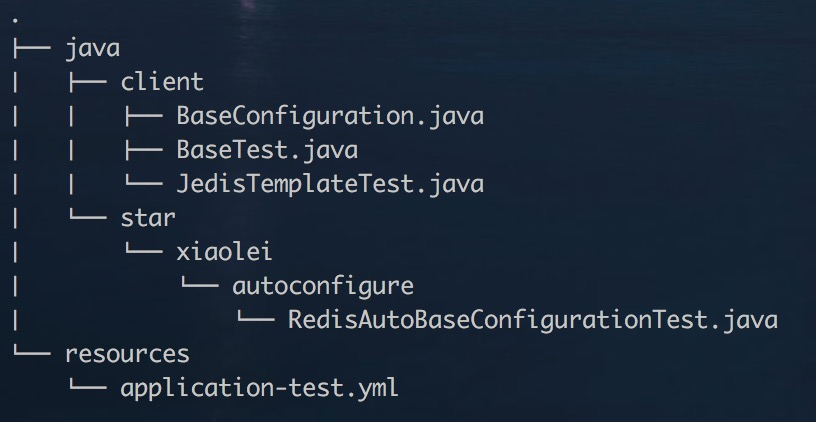
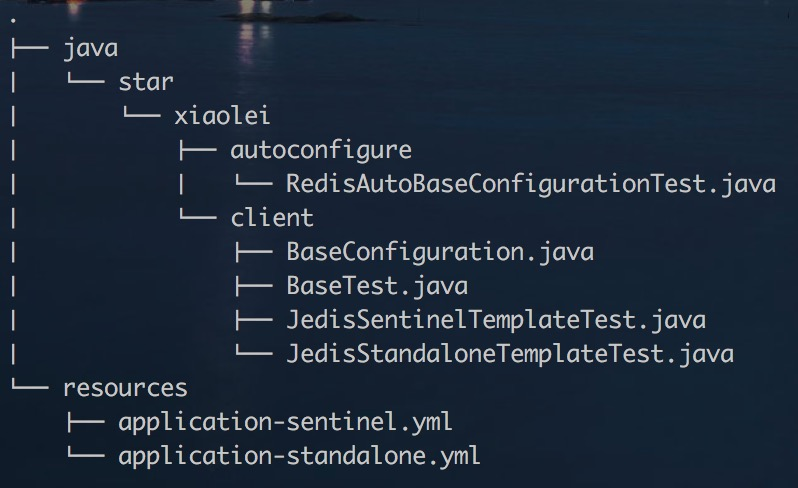
intergrate sentinel mode

diff --git a/src/main/java/star/xiaolei/autoconfigure/RedisAutoConfiguration.java b/src/main/java/star/xiaolei/autoconfigure/RedisAutoConfiguration.java
@@ -1,5 +1,7 @@
 package star.xiaolei.autoconfigure;
 
+import com.google.common.base.Strings;
+import com.google.common.collect.Sets;
 import lombok.extern.slf4j.Slf4j;
 import org.slf4j.Logger;
 import org.slf4j.LoggerFactory;
@@ -7,10 +9,12 @@ import org.springframework.beans.factory.annotation.Autowired;
 import org.springframework.boot.context.properties.EnableConfigurationProperties;
 import org.springframework.context.annotation.Bean;
 import org.springframework.context.annotation.Configuration;
+import redis.clients.jedis.*;
+import redis.clients.util.Pool;
 import star.xiaolei.client.JedisTemplate;
 import star.xiaolei.properties.RedisProperties;
-import redis.clients.jedis.JedisPool;
-import redis.clients.jedis.JedisPoolConfig;
+
+import java.util.Set;
 
 /**
  * Created by 周高磊
@@ -45,11 +49,23 @@ public class RedisAutoConfiguration {
     /**
      * 构建连接池
      * @param jedisPoolConfig 连接池配置信息
-     * @return 连接池
+     * @return Pool<Jedis>: JedisPool/JedisSentinelPool 连接池
      */
     @Bean
-    public JedisPool getJedisPool(JedisPoolConfig jedisPoolConfig) {
-        return new JedisPool(jedisPoolConfig, properties.getHost(), properties.getPort());
+    public Pool<Jedis> getJedisPool(JedisPoolConfig jedisPoolConfig) {
+        if(properties.isCluster()) {
+            String[] sentinelProps =  properties.getSentinelHosts().split(",");
+            Set<String> sentinelHosts = Sets.newHashSet(sentinelProps);
+            if(Strings.isNullOrEmpty(properties.getAuth())) {
+                return new JedisSentinelPool(properties.getSentinelMasterName(), sentinelHosts, jedisPoolConfig);
+            }
+            return new JedisSentinelPool(properties.getSentinelMasterName(), sentinelHosts, jedisPoolConfig, Protocol.DEFAULT_TIMEOUT, properties.getAuth());
+        }
+
+        if(Strings.isNullOrEmpty(properties.getAuth())) {
+            return new JedisPool(jedisPoolConfig, properties.getHost(), properties.getPort());
+        }
+        return new JedisPool(jedisPoolConfig, properties.getHost(), properties.getPort(), Protocol.DEFAULT_TIMEOUT, properties.getAuth());
     }
 
     /**
@@ -58,7 +74,7 @@ public class RedisAutoConfiguration {
      * @return 客户端可用连接
      */
     @Bean
-    public JedisTemplate getRedisTemplate(JedisPool jedisPool) {
+    public JedisTemplate getRedisTemplate(Pool<Jedis> jedisPool) {
         return new JedisTemplate(jedisPool);
     }
 

diff --git a/src/test/java/star/xiaolei/client/JedisSentinelTemplateTest.java b/src/test/java/star/xiaolei/client/JedisSentinelTemplateTest.java
@@ -1,0 +1,37 @@
+package star.xiaolei.client;
+
+import org.junit.Before;
+import org.junit.Test;
+import org.springframework.beans.factory.annotation.Autowired;
+import org.springframework.test.context.ActiveProfiles;
+import static org.hamcrest.MatcherAssert.assertThat;
+import static org.hamcrest.core.Is.is;
+
+/**
+ * Created by 周高磊
+ * Date: 2017/5/4.
+ * Email: gaoleizhou@gmail.com
+ * Desc: Sentinel模式测试
+ */
+@ActiveProfiles("sentinel")
+public class JedisSentinelTemplateTest extends BaseTest {
+
+    @Autowired
+    private JedisTemplate jedisTemplate;
+
+    @Before
+    public void init() {
+        jedisTemplate.execute(jedis -> {
+            jedis.set("test", "1");
+        });
+    }
+
+    @Test
+    public void testGetWithResult() {
+        String value = jedisTemplate.execute(jedis -> {
+            return jedis.get("test");
+        });
+        assertThat(value, is("1"));
+    }
+
+}

diff --git a/src/main/java/star/xiaolei/client/JedisTemplate.java b/src/main/java/star/xiaolei/client/JedisTemplate.java
@@ -5,6 +5,7 @@ import org.slf4j.LoggerFactory;
 import redis.clients.jedis.Jedis;
 import redis.clients.jedis.JedisPool;
 import redis.clients.jedis.exceptions.JedisException;
+import redis.clients.util.Pool;
 
 /**
  * Created by 周高磊
@@ -16,9 +17,9 @@ public class JedisTemplate {
 
     private static Logger logger = LoggerFactory.getLogger(JedisTemplate.class);
 
-    private JedisPool jedisPool;
+    private Pool<Jedis> jedisPool;
 
-    public JedisTemplate(JedisPool jedisPool) {
+    public JedisTemplate(Pool<Jedis> jedisPool) {
         this.jedisPool = jedisPool;
     }
 
@@ -26,7 +27,7 @@ public class JedisTemplate {
      * 获取连接池
      * @return jedisPool
      */
-    public JedisPool getJedisPool() {
+    public Pool<Jedis> getJedisPool() {
         return jedisPool;
     }
 

diff --git a/src/test/java/star/xiaolei/client/JedisStandaloneTemplateTest.java b/src/test/java/star/xiaolei/client/JedisStandaloneTemplateTest.java
@@ -3,6 +3,7 @@ package star.xiaolei.client;
 import org.junit.Before;
 import org.junit.Test;
 import org.springframework.beans.factory.annotation.Autowired;
+import org.springframework.test.context.ActiveProfiles;
 
 import static org.hamcrest.MatcherAssert.assertThat;
 import static org.hamcrest.core.Is.is;
@@ -11,9 +12,10 @@ import static org.hamcrest.core.Is.is;
  * Created by 周高磊
  * Date: 2017/5/3.
  * Email: gaoleizhou@gmail.com
- * Desc:
+ * Desc: Standalone模式测试
  */
-public class JedisTemplateTest extends BaseTest {
+@ActiveProfiles("standalone")
+public class JedisStandaloneTemplateTest extends BaseTest {
 
     @Autowired
     private JedisTemplate jedisTemplate;

diff --git a/src/main/java/star/xiaolei/properties/RedisProperties.java b/src/main/java/star/xiaolei/properties/RedisProperties.java
@@ -34,4 +34,13 @@ public class RedisProperties {
     //在获取连接的时候是否检查有效性
     private boolean testOnBorrow = true;
 
+    //是否开启集群模式,默认关闭
+    private boolean cluster = false;
+
+    //Sentinel Instance 列表
+    private String SentinelHosts;
+
+    //Sentinel Master Name
+    private String SentinelMasterName;
+
 }

diff --git a/src/test/java/star/xiaolei/client/BaseTest.java b/src/test/java/star/xiaolei/client/BaseTest.java
@@ -13,6 +13,5 @@ import org.springframework.test.context.junit4.SpringJUnit4ClassRunner;
  */
 @RunWith(SpringJUnit4ClassRunner.class)
 @SpringBootTest(classes = BaseConfiguration.class)
-@ActiveProfiles("test")
 public abstract class BaseTest {
 }

diff --git a/README.md b/README.md
@@ -7,6 +7,7 @@
 * 连接池的获取: JedisTemplate负责连接池的管理,也可通过getJedisPool单独获取连接池;
 * 连接池资源的释放: 每次执行完Redis的命令动作之后,自动释放连接池;
 * 支持两种类型: 有返回结果的函数回调和无返回结果的函数回调;
+* 支持Standalone和Sentinel模式，通过cluster属性作为开关；
 * 使用JDK 8的Lambda表达式: 函数式编程, 接口编程.
 
 #### 二. 项目结构
@@ -21,15 +22,18 @@ JedisTemplate.java: 通用的连接模板;
 ```
 * 测试代码
 
-<img src="test-structure.png" width="360" height="200" alt="结构" />
+<img src="test-structure.png" width="310" height="200" alt="结构" />
 
 ```
 RedisAutoBaseConfigurationTest.java: 测试配置的自动加载与Bean装配;
-JedisTemplateTest.java: 测试连接池的管理与使用.
+JedisTemplateTest.java: Standalone模式测试用例
+JedisSentinelTemplateTest: Sentinel模式测试用例
 ```
 
 #### 三. 配置(application.yml)
 ##### 使用Spring-Boot的yml文件进行配置的管理.
+* Standalone模式
+
 ```
 redis:
   host: 127.0.0.1
@@ -38,6 +42,19 @@ redis:
   maxIdle: 0
   maxWaitMillis: 10000
   testOnBorrow: true
+```
+
+* Sentinel模式
+
+```
+redis:
+  maxTotal: 5
+  maxIdle: 0
+  maxWaitMillis: 10000
+  testOnBorrow: true
+  cluster: true
+  sentinel-master-name: test
+  sentinel-hosts: 127.0.0.1:26378,127.0.0.1:26379
 ```
 
 ### 四. 如何使用
@@ -64,5 +81,4 @@ redis:
 ```
 
 ### 五. 待续
-* 支持Sentinel的Master-Slave模式配置发现与装载;
 * 支持Cluster模式配置发现与装载.
